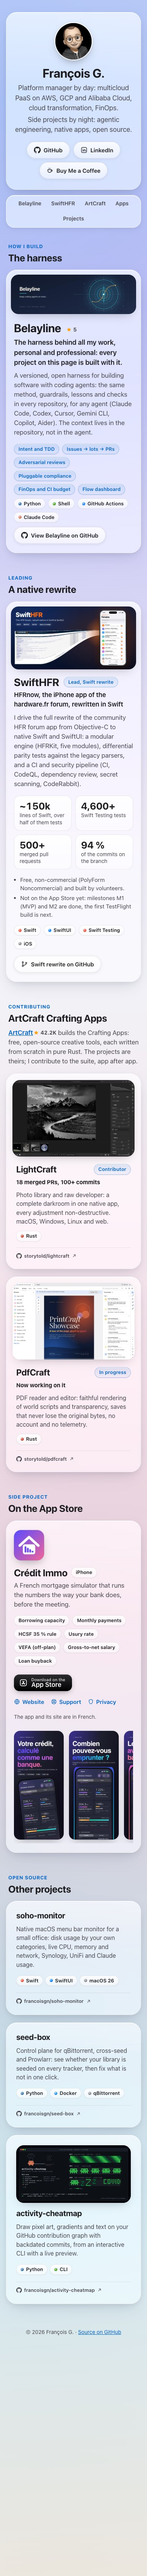
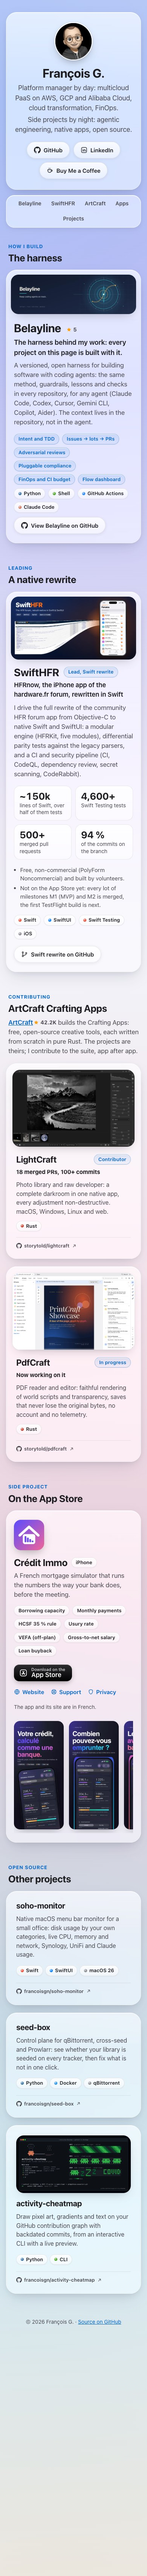
site: review round 2 fixes (SwiftHFR status, stat tiles, cv-pdf.sh port guard)
SwiftHFR note says every M1/M2 lot is merged instead of "milestones done"
(their exit checks remain). Belayline statement no longer says
"professional". Stat tiles are a list read in order ("94 % of the
commits..."). cv-pdf.sh refuses a port already in use, checks its server is
alive, keeps its exit status in the cleanup, documents CV_PDF_PORT and the
PDF's Creator/CreationDate. CLAUDE.md records the full name in the PDF's
file name.

Claude-Session: https://claude.ai/code/session_014QH2CJ4eiEx9X2e6scdEEB

Changed region(s): [[0.0308, 0.1247, 0.9538, 0.9041]]

diff --git a/src/data/projects.ts b/src/data/projects.ts
@@ -113,7 +113,7 @@ export const swiftHfr: Lead = {
   ],
   notes: [
     'Free, non-commercial (PolyForm Noncommercial) and built by volunteers.',
-    'Not on the App Store yet: milestones M1 (MVP) and M2 are done, the first TestFlight build is next.',
+    'Not on the App Store yet: every lot of milestones M1 (MVP) and M2 is merged, the first TestFlight build is next.',
   ],
   tech: ['Swift', 'SwiftUI', 'Swift Testing', 'iOS'],
   visual: {

diff --git a/CLAUDE.md b/CLAUDE.md
@@ -40,7 +40,8 @@ A visual change is checked by looking at it: desktop and mobile widths, light an
 - **Content as data**: projects and links in `src/data/` (typed), not hard-coded in markup.
 - **Personal data**: only what the maintainer chose to publish (name, public profiles, public projects). No email
   address in clear, no phone, no home IP or hostname. The full name appears only on the unlisted `/cv/` page and its
-  PDF (`src/data/cv.ts`, contact = LinkedIn and GitHub); the home page says "François G.".
+  PDF (`src/data/cv.ts`, contact = LinkedIn and GitHub) and in the PDF's file name (`francois-guillon-cv.pdf`, as
+  a recruiter expects); the home page says "François G.".
 - **DNS and network changes** (Gandi records, UniFi, NAS) are never applied by an agent without the maintainer's
   explicit yes in the session; Gandi API tokens live in the macOS Keychain only.
 - **Language**: English for code, docs and commits; site content in English with a French version when added.
